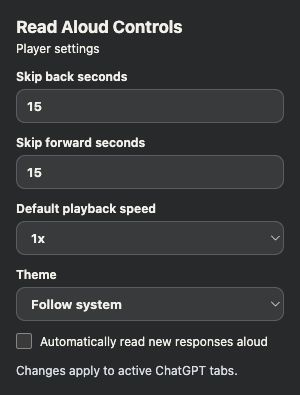
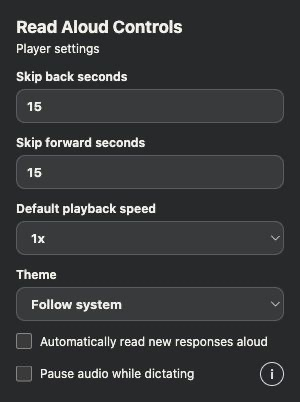
Refresh light and dark settings screenshots

diff --git a/images/popup-source.html b/images/popup-source.html
@@ -2,7 +2,7 @@
 <html lang="en">
 <meta charset="utf-8">
 <title>Settings documentation capture</title>
-<style>html,body{margin:0}iframe{display:block;width:300px;height:395px;border:0}</style>
+<style>html,body{margin:0}iframe{display:block;width:300px;height:402px;border:0}</style>
 <iframe title="Actual extension settings" src="../src/popup.html"></iframe>
 <script>
     // An iframe inherits the embedding element's color scheme, so production

diff --git a/images/README.md b/images/README.md
@@ -5,6 +5,11 @@ Captured October 30, 2026 from the production extension UI at runtime commit
 composition of those captures with typography and a background; its controls and
 response text are the captured product UI.
 
+The light and dark settings captures were refreshed November 2, 2026 from the
+production popup at runtime commit `ea081c2`, including the optional dictation
+pause checkbox and its collapsed information button. Other captures remain from
+the original session above.
+
 ## Theme-aware presentation
 
 The README and usage guide use GitHub-supported `<picture>` elements. A dark
@@ -26,7 +31,7 @@ for review; production Markdown uses the reader's GitHub appearance.
 | `reading-queue` | Paused, drawer open, one current response and three waiting. | 592 × 513 |
 | `player-expanded` | Paused, drawer closed. | 592 × 197 |
 | `player-minimized` | Paused, minimized, same skip values. | 592 × 88 |
-| `settings` | Actual settings form with fresh-install defaults. | 300 × 395 |
+| `settings` | Actual settings form with fresh-install defaults and dictation pause help closed. | 300 × 402 |
 
 ## Capture sources
 

diff --git a/README.md b/README.md
@@ -70,11 +70,11 @@ See the [usage guide](docs/USAGE.md) for queue controls, settings, downloads, an
 
 ## Settings
 
-Open the extension icon to set skip intervals, default speed, theme, and **Automatically read new responses aloud**. Automatic reading starts off; both skip intervals default to 15 seconds. Settings are saved locally and apply to active ChatGPT tabs.
+Open the extension icon to set skip intervals, default speed, theme, **Automatically read new responses aloud**, and **Pause audio while dictating**. Automatic reading and dictation pause start off; both skip intervals default to 15 seconds. Settings are saved locally and apply to active ChatGPT tabs.
 
 <picture>
   <source media="(prefers-color-scheme: dark)" srcset="images/settings-dark.jpg">
-  <img src="images/settings-light.jpg" alt="Settings popup with independent skip intervals, default playback speed, theme, and automatic reading checkbox" width="300">
+  <img src="images/settings-light.jpg" alt="Settings popup with skip intervals, playback speed, theme, automatic reading, and dictation pause checkboxes" width="300">
 </picture>
 
 ## Privacy

diff --git a/docs/USAGE.md b/docs/USAGE.md
@@ -81,7 +81,7 @@ Open the extension popup and check **Automatically read new responses aloud**.
 
 <picture>
   <source media="(prefers-color-scheme: dark)" srcset="../images/settings-dark.jpg">
-  <img src="../images/settings-light.jpg" alt="Extension popup showing skip, speed, theme, and automatic reading settings" width="300">
+  <img src="../images/settings-light.jpg" alt="Extension popup showing skip, speed, theme, automatic reading, and dictation pause settings" width="300">
 </picture>
 
 Newly completed responses join the tab’s queue. Opening, scrolling, or focusing an existing conversation does not read its history. Both manually selected and automatically added responses wait behind paused playback.
